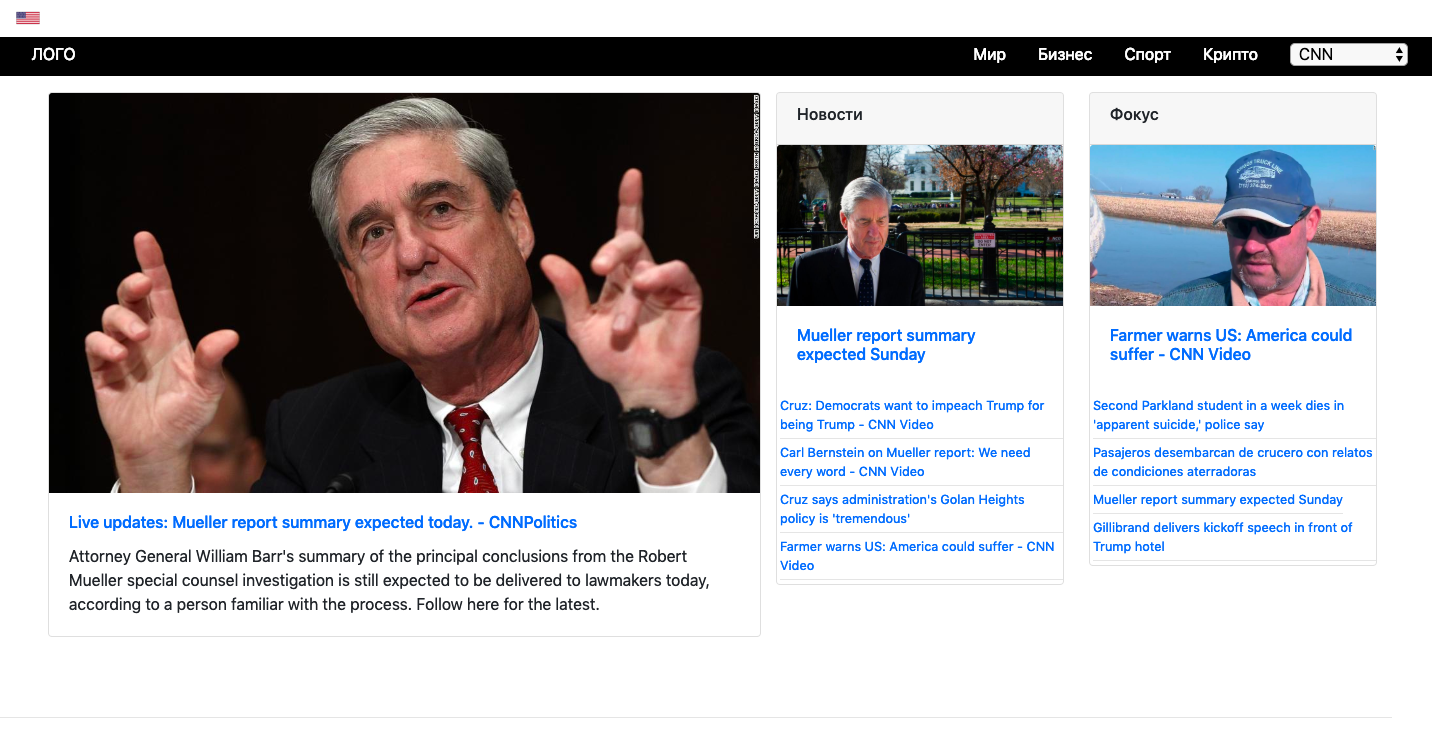
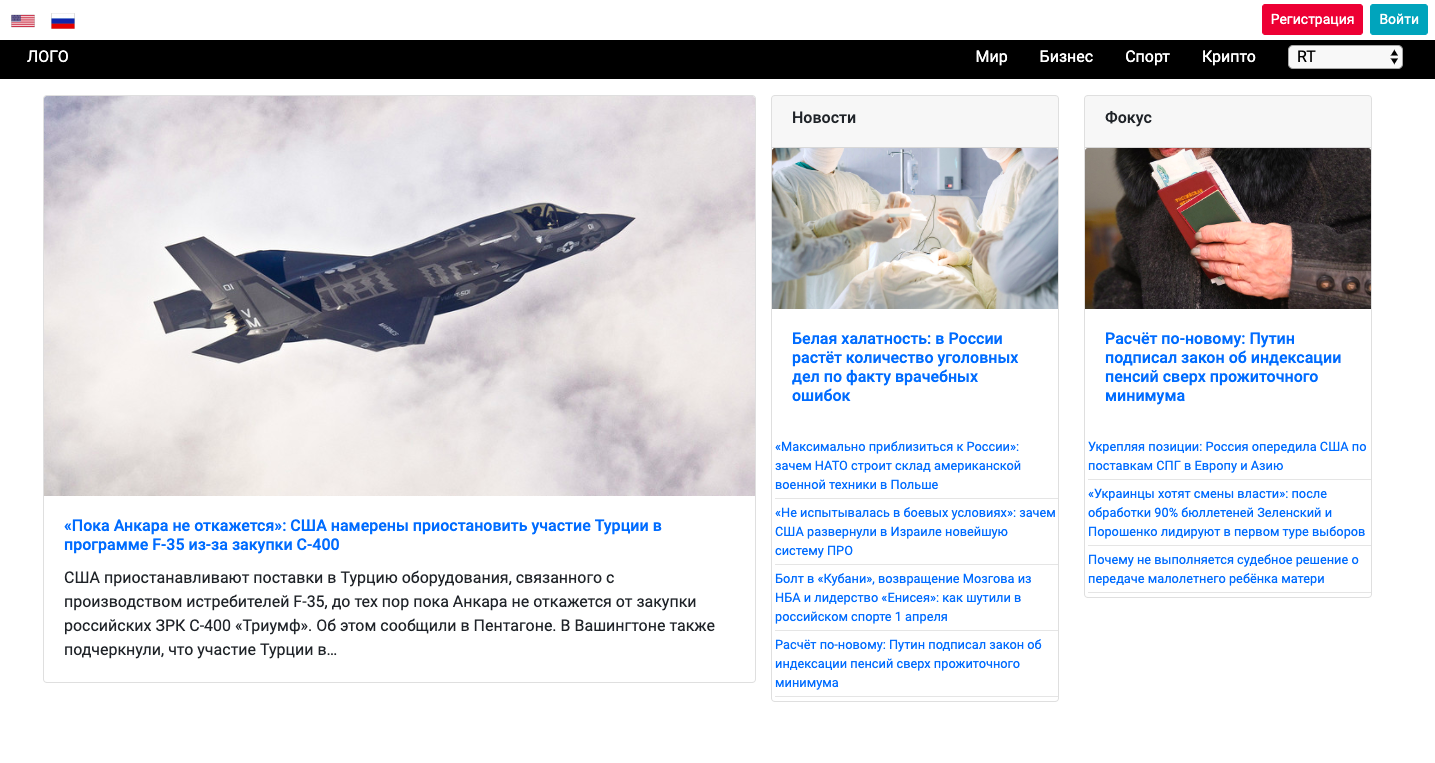
readme is updated with new pictures.

diff --git a/README.md b/README.md
@@ -7,14 +7,17 @@ The page is available in two language English and Russian.
 - Spring Boot
 - Java 8
 - Continuous Deployment 
-- pipeline (DevOps)
+- Pipeline (DevOps)
+- Docker
 - Bootstrap
 - Angular 7 
 
 #Outlook
 To see the project on Heroku, please use this link:    
 https://newsportal-petproject-daniel.herokuapp.com/
-![alt text](forreadme/mainpage.png)
+![alt text](forreadme/mainpage.png)                                          
+                                    
+![alt text](forreadme/news.png)                                   
 You can search between multiple channels.       
 ![alt text](forreadme/dropdown.png)       
 Continuous Deployment pipeline on the IBM cloud     
